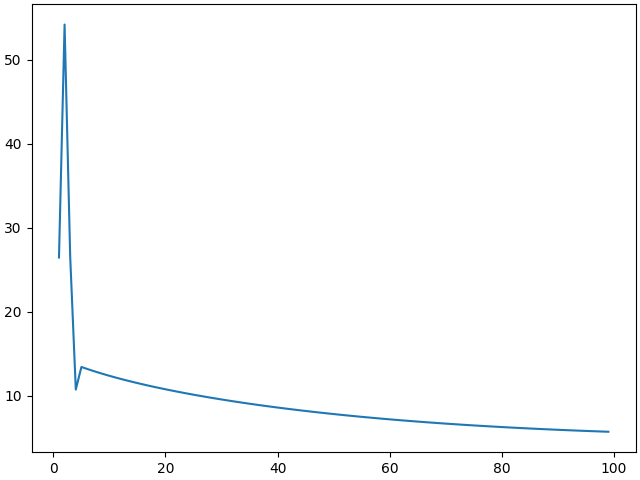
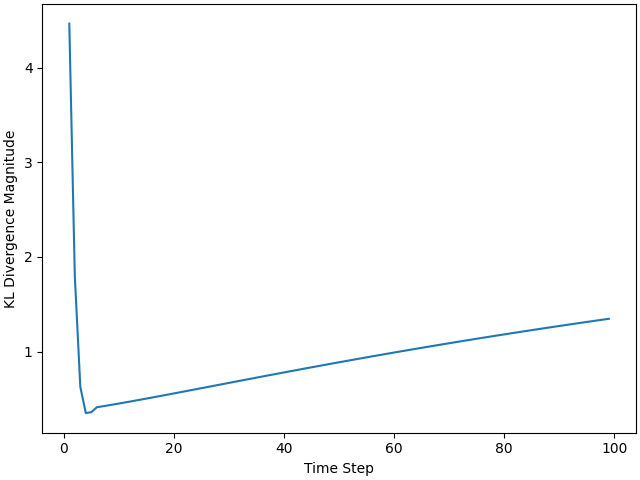
Fixed KL divergence plot in utils

diff --git a/utils.py b/utils.py
@@ -9,14 +9,10 @@ def plotKL(env: WildFireEnv):
     envDistrib = multivariate_normal(env.mean, env.cov)
     KL = np.zeros(env.step_count)
     for t in tqdm(range(1,env.step_count)):
-        for x1 in np.arange(0, env.width, 0.1):
-            for x2 in np.arange(0, env.height, 0.1):
-                est_prob = multivariate_normal(env.mu_approx_history[t], env.cov_approx_history[t,:,:]).pdf([x1, x2])
-                true_prob = envDistrib.pdf([x1, x2])
-                KL[t] += est_prob * np.log(est_prob / true_prob)
+        KL[t] += env.get_divergence(env.mu_approx_history[t,:], env.cov_approx_history[t,:])
     fig,ax = plt.subplots(layout='constrained')
     ax.plot(np.arange(1, env.step_count), KL[1:])
     ax.set_xlabel('Time Step')
     ax.set_ylabel('KL Divergence Magnitude')
-    
+    ax.set_title('KL Divergence Between True and Estimated Distribution Over Time')
     return fig, ax
